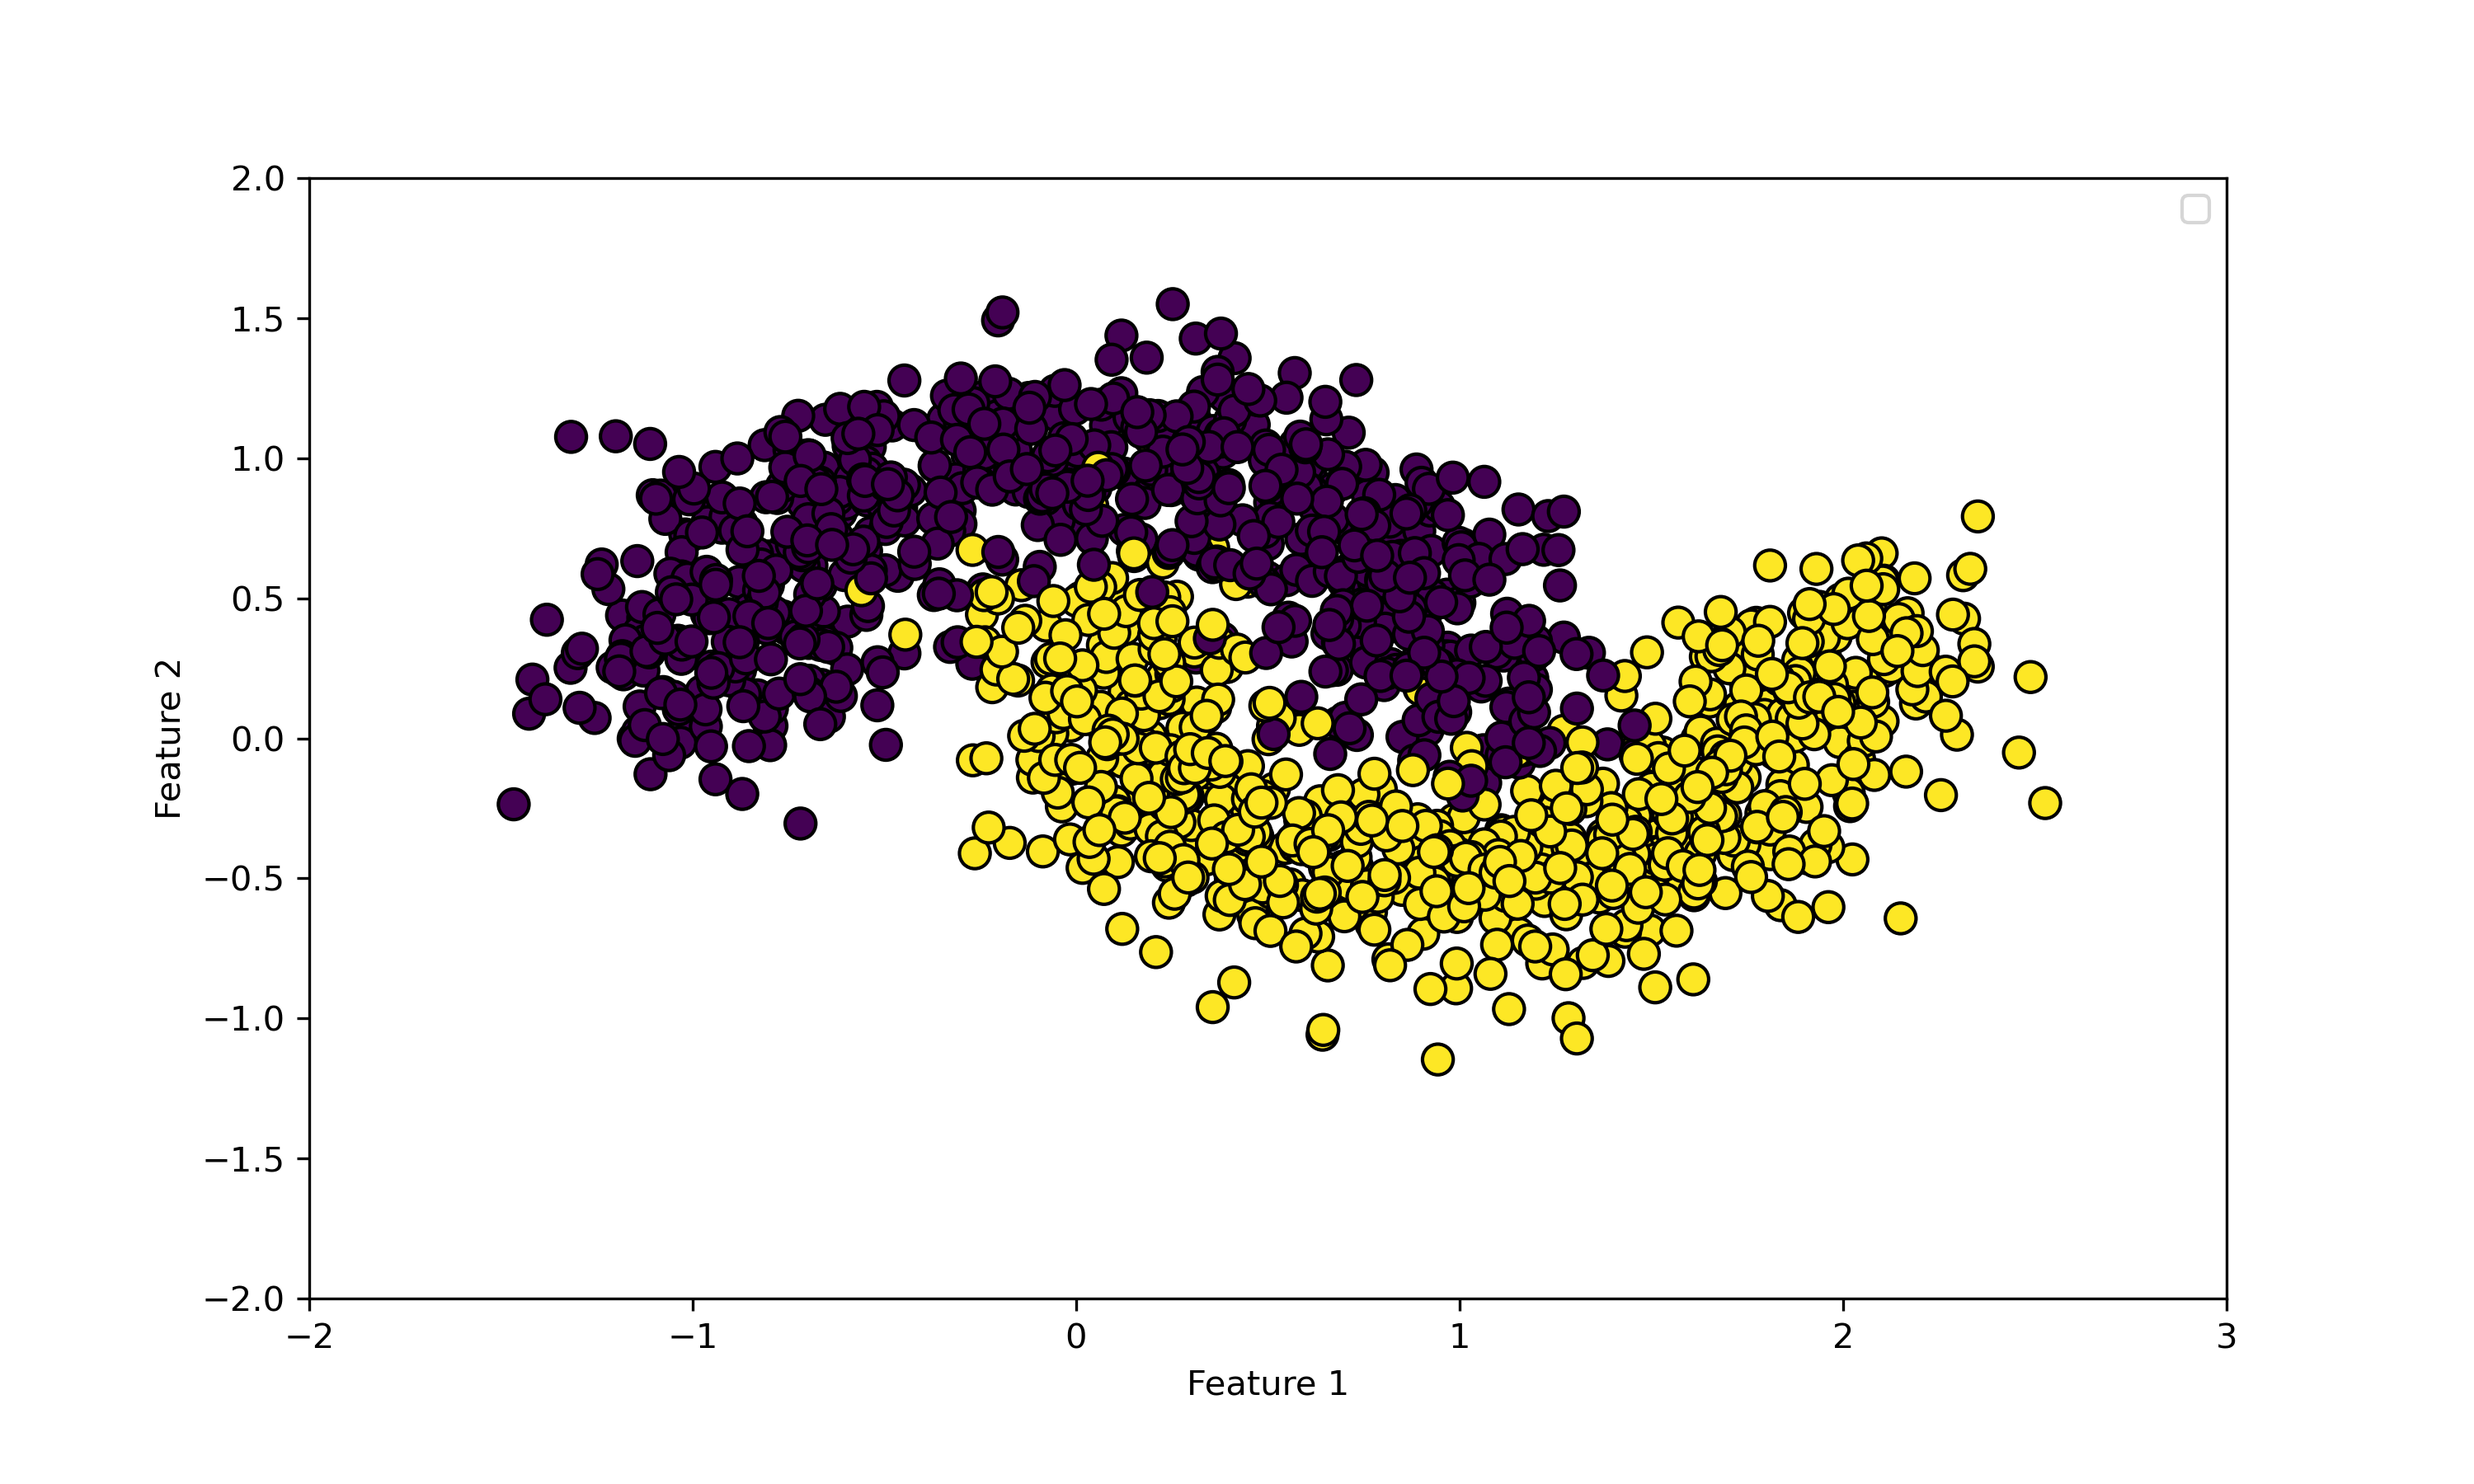
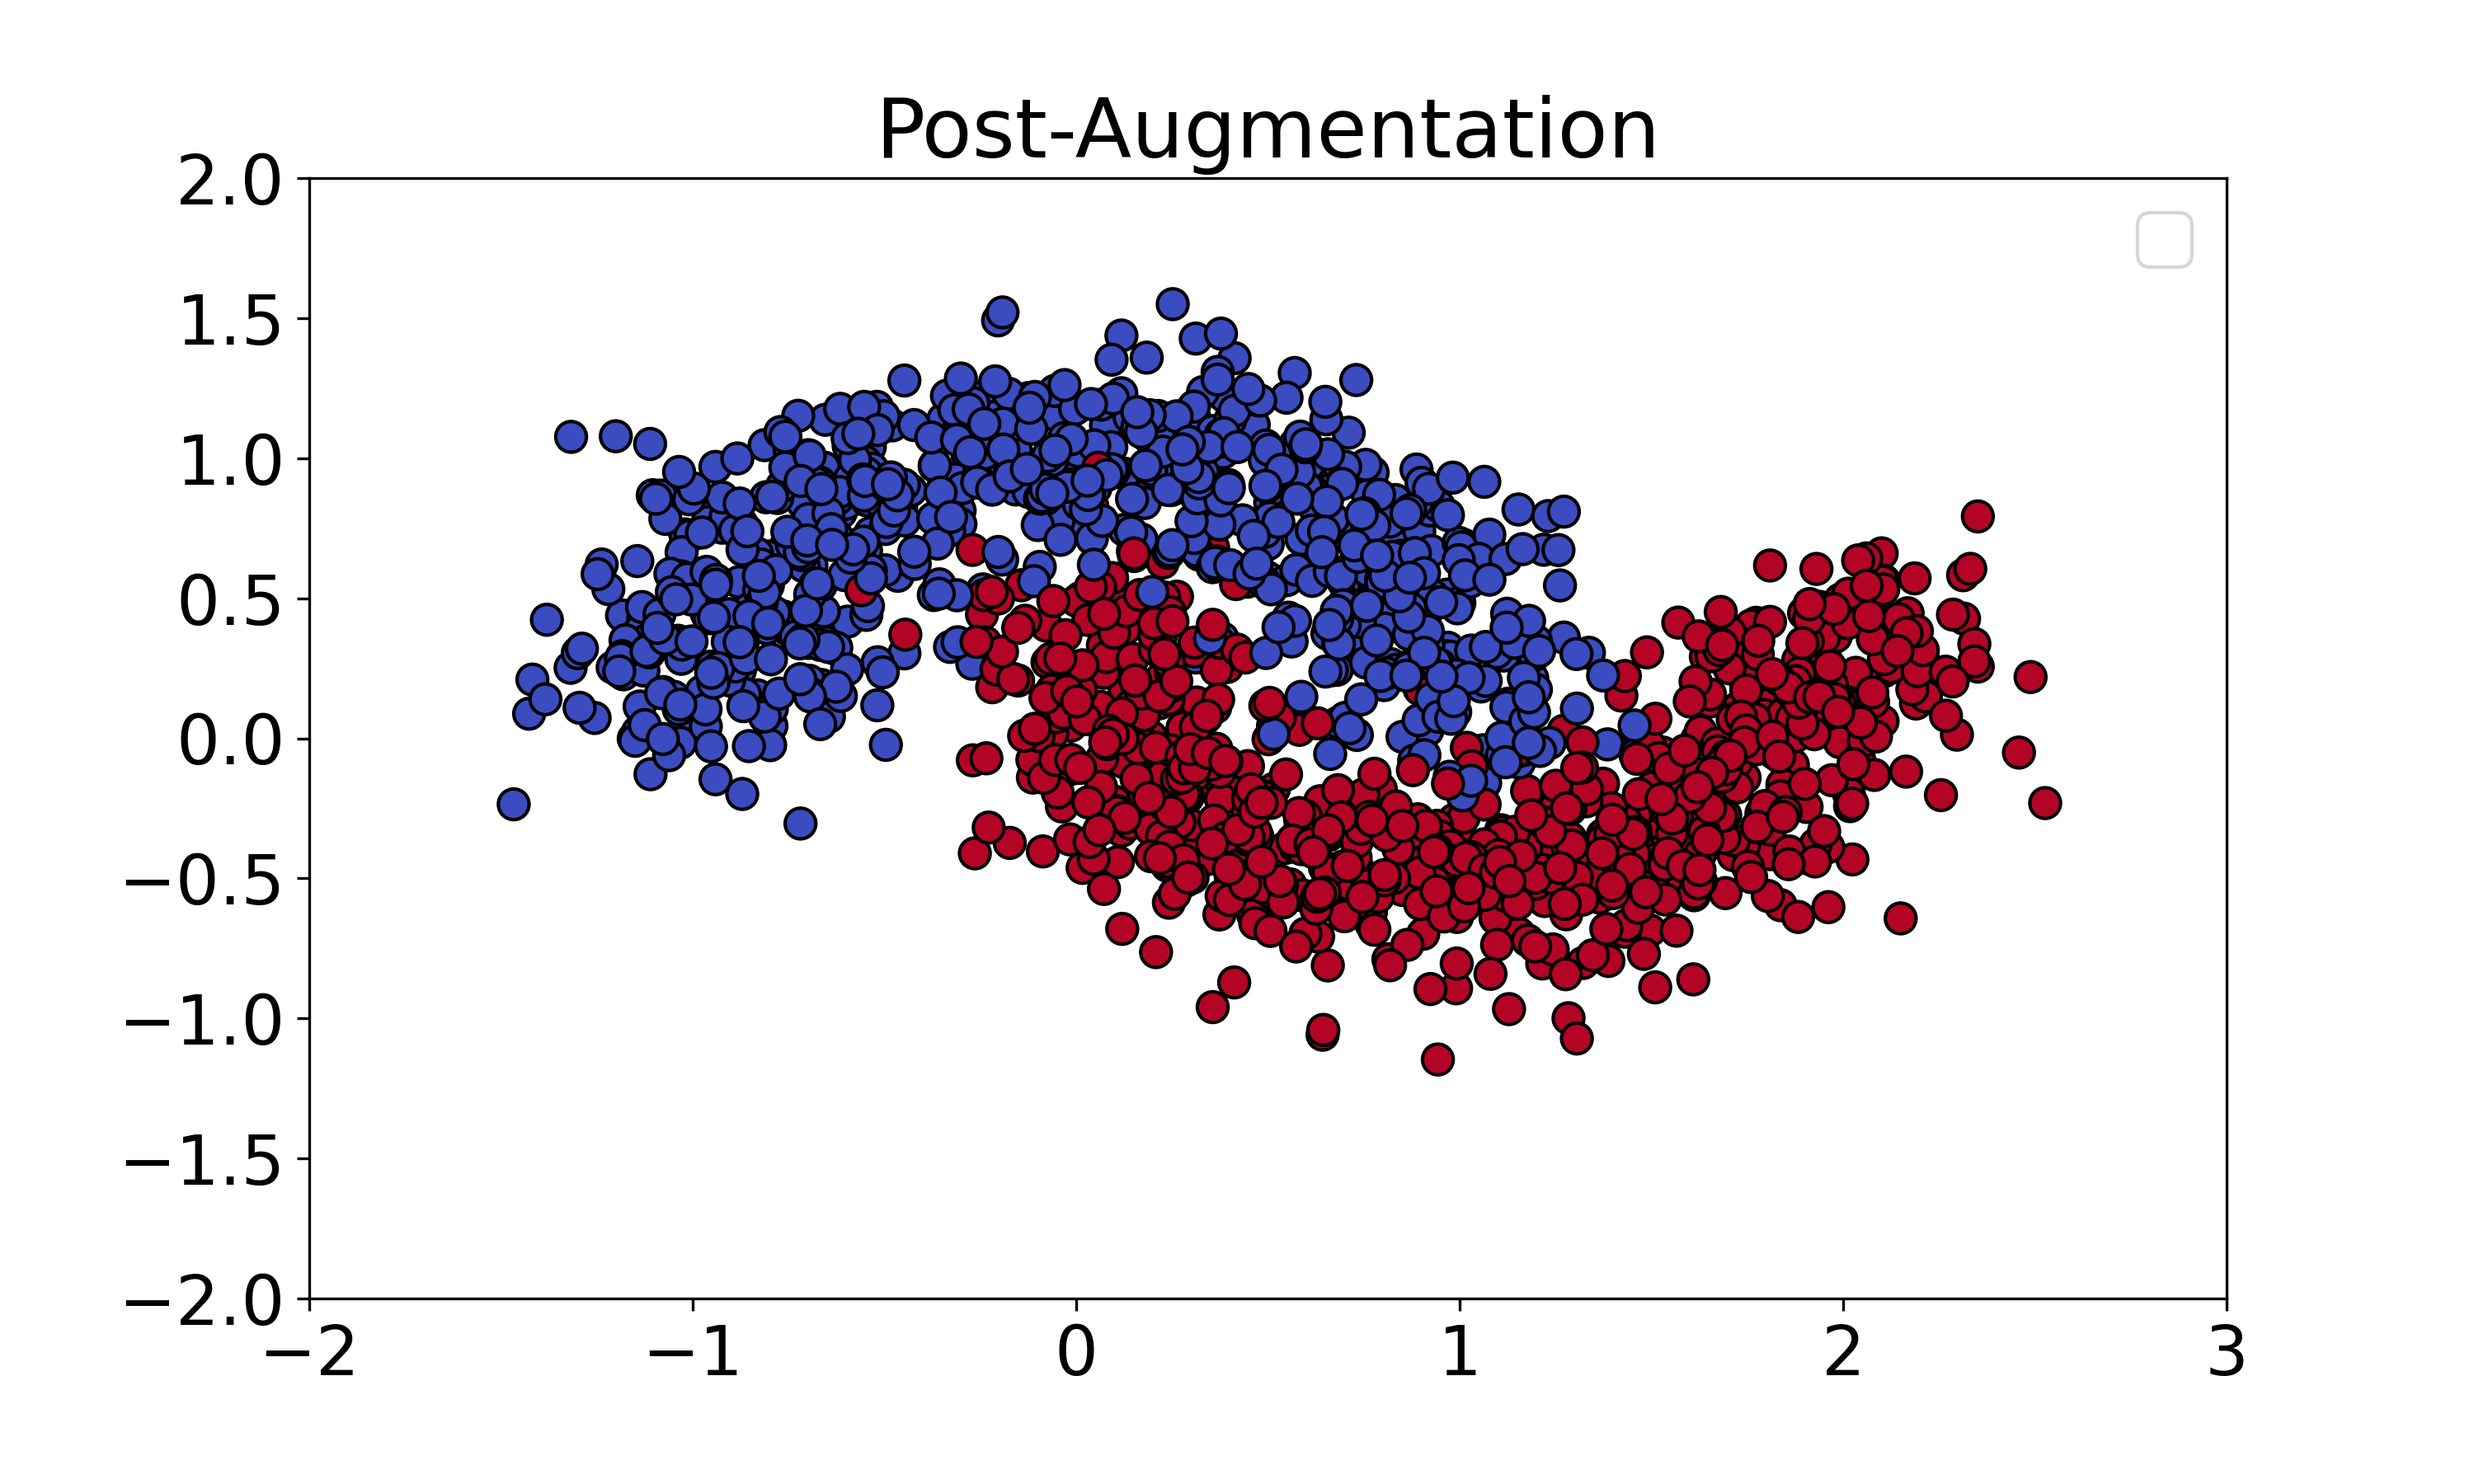
Updated plots & graphs: SYNTHETIC DATA PROCESS pdf & png, post- and pre-aug images, & scatterplot_presentation example

diff --git a/AceMejiaSanchez/Experiments/scatterplot_presentation_example.py b/AceMejiaSanchez/Experiments/scatterplot_presentation_example.py
@@ -21,12 +21,14 @@ x1,y1 = make_moons(n_samples=1500, random_state=42, noise=.2)
 plt.figure(figsize=(10, 6))
 
 # Plot data points for each class
-plt.scatter(x1[:,0], x1[:,1], c = y1, s = 80, edgecolors='black')
+plt.scatter(x1[:,0], x1[:,1], c = y1, cmap = "coolwarm", s = 80, edgecolors='black')
 
 # Add title and labels
-# plt.title('Scatter Plot with Three Distinct Classes')
-plt.xlabel('Feature 1')
-plt.ylabel('Feature 2')
+plt.rcParams['font.size'] = 20
+# plt.title('Pre-Augmentation')
+plt.title('Post-Augmentation')
+# plt.xlabel('Feature 1')
+# plt.ylabel('Feature 2')
 
 
 # Set x and y axis limits
@@ -38,7 +40,10 @@ plt.legend()
 
 # Save plot
 #plt.savefig('C:/Users/aceme/OneDrive/Documents/GitHub/BP24/AceMejiaSanchez/Images/pre_data_aug.png', dpi=300)
-plt.savefig('C:/Users/aceme/OneDrive/Documents/GitHub/BP24/AceMejiaSanchez/Images/post_data_aug.png', dpi=300)
+#plt.savefig('C:/Users/aceme/OneDrive/Documents/GitHub/BP24/AceMejiaSanchez/Images/post_data_aug.png', dpi=300)
+
+plt.gca().set_xticks([])
+plt.gca().set_yticks([])
 
 # Show the plot
 plt.show()
